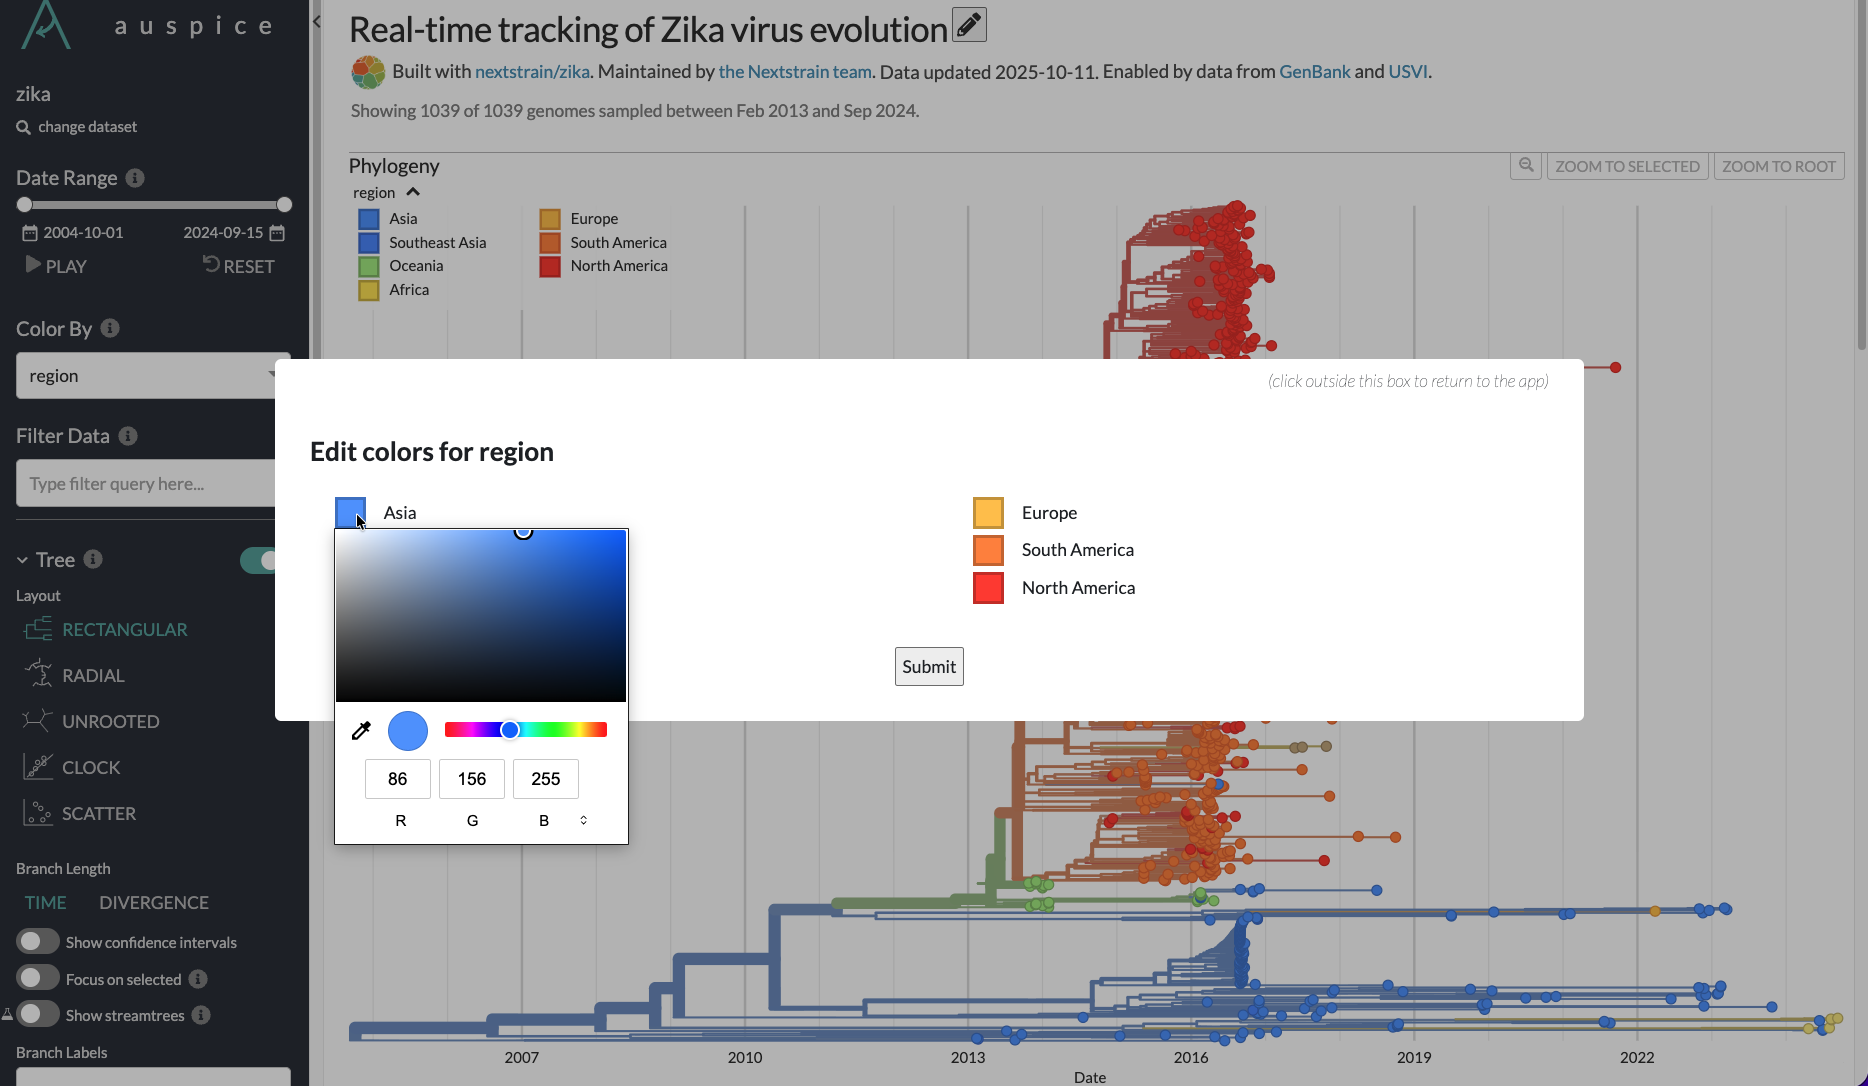
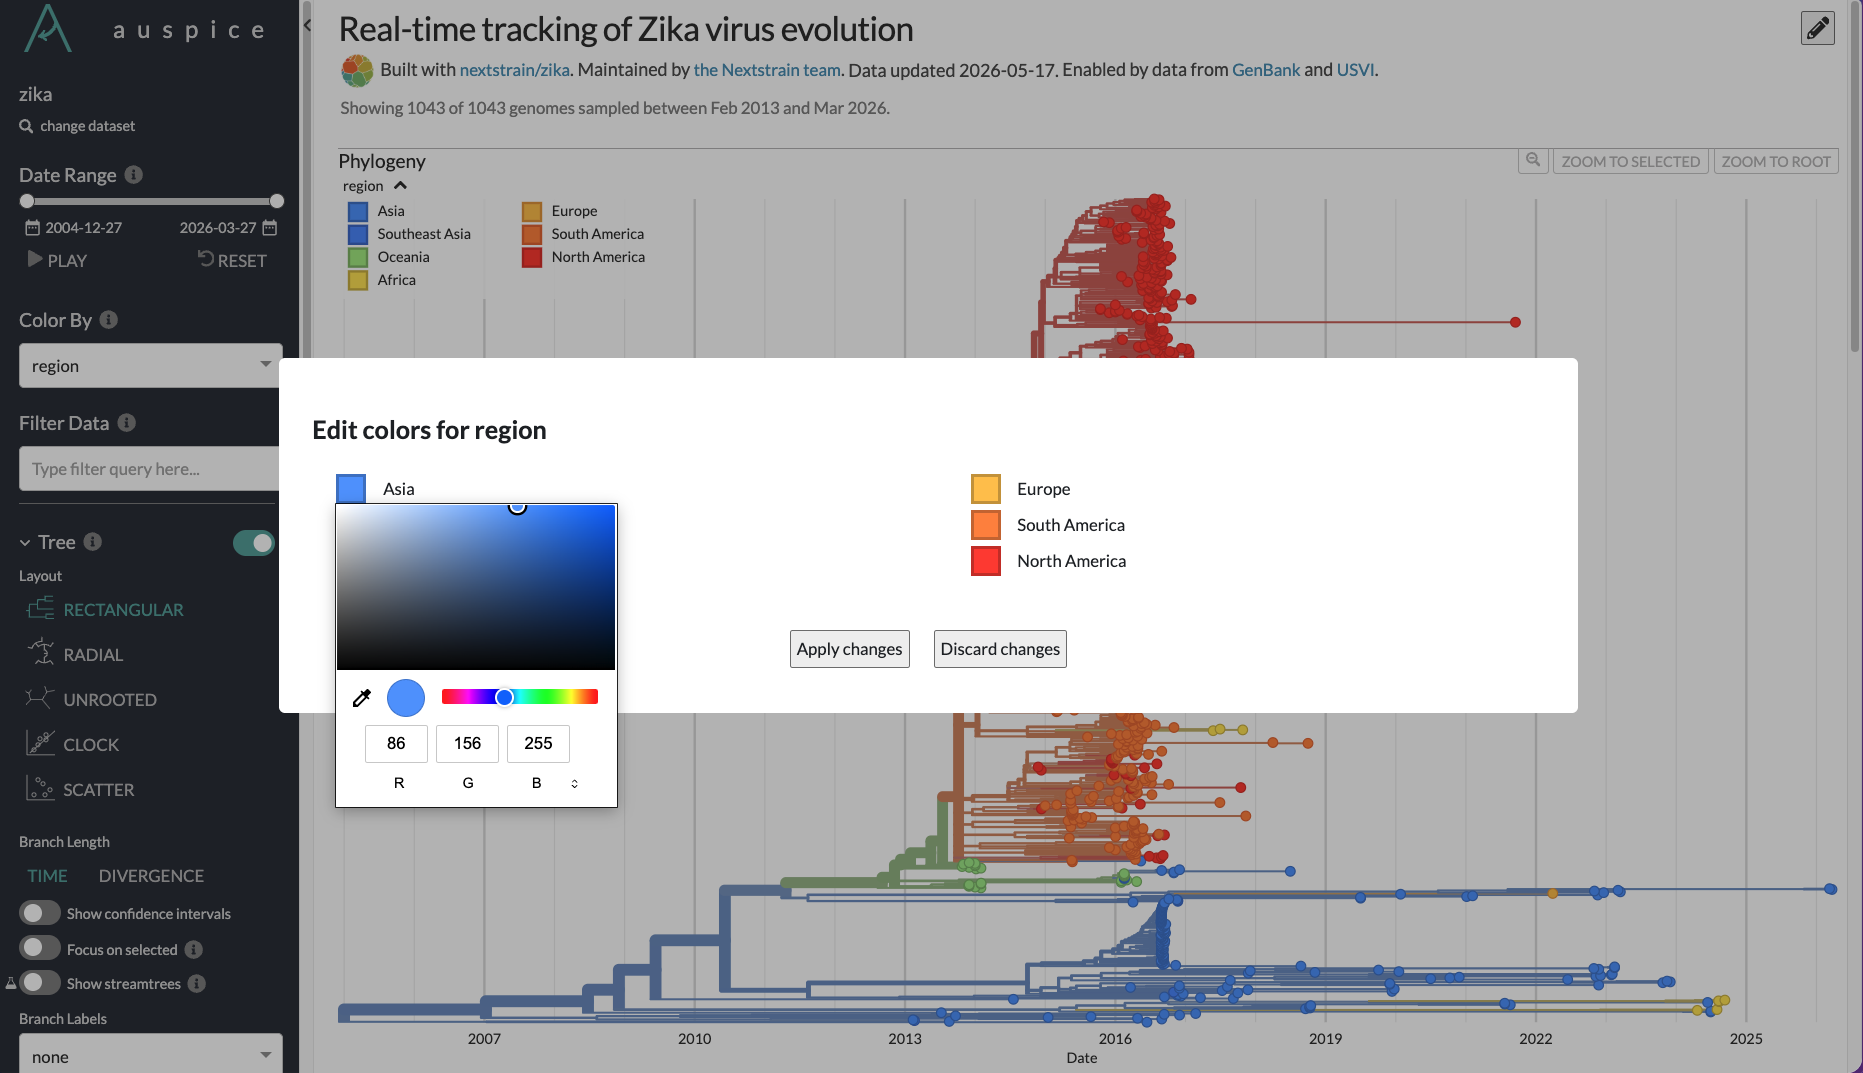
docs: Update editing dataset

diff --git a/docs/advanced-functionality/editing-datasets.rst b/docs/advanced-functionality/editing-datasets.rst
@@ -36,8 +36,8 @@ How to edit the metadata
 
 1. Click on the edit button to the right of the dataset title to open the editor modal.
 2. Edit desired fields.
-3. Click "Submit" to save changes locally.
-4. Click outside the modal if you want to discard all changes.
+3. Click "Apply changes" or press "Enter" to save changes locally.
+4. Click "Discard changes" or press "Esc" to discard all changes and close the modal.
 
 .. image:: ../assets/dataset-editing-modal.png
 
@@ -59,7 +59,7 @@ within Auspice.
 2. Open the legend.
 3. Shift-click on one of the legend swatches to open the editor modal.
 4. Click on the color value that you would like to change.
-5. Click "Submit" to save changes locally.
-6. Click outside the modal if you want to discard all changes.
+5. Click "Apply changes" or press "Enter" to save changes locally.
+6. Click "Discard changes" or press "Esc" to discard all changes and close the modal.
 
 .. image:: ../assets/color-editing-modal.png